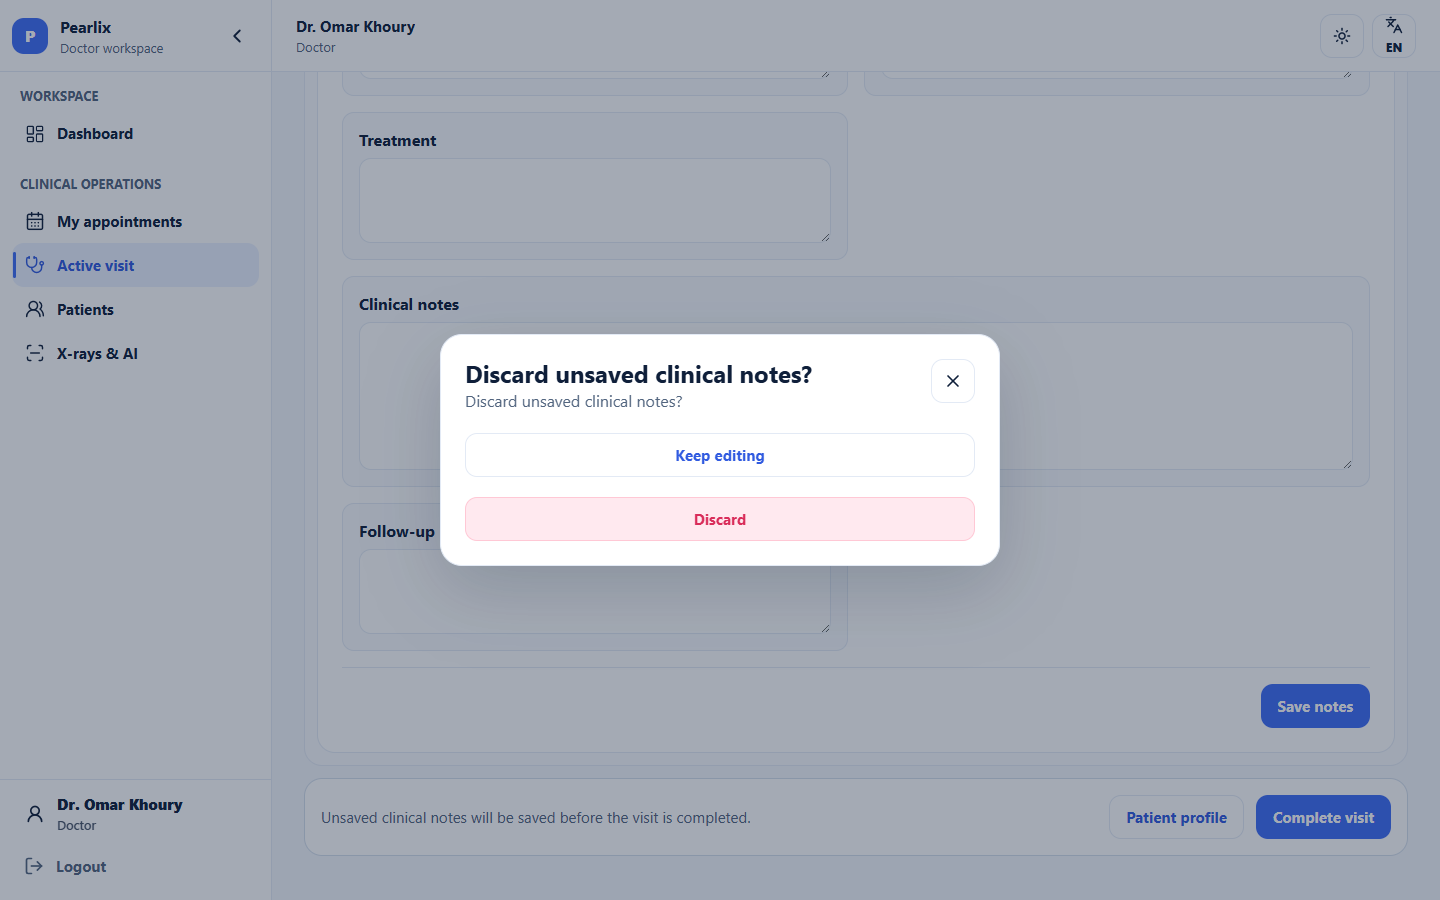
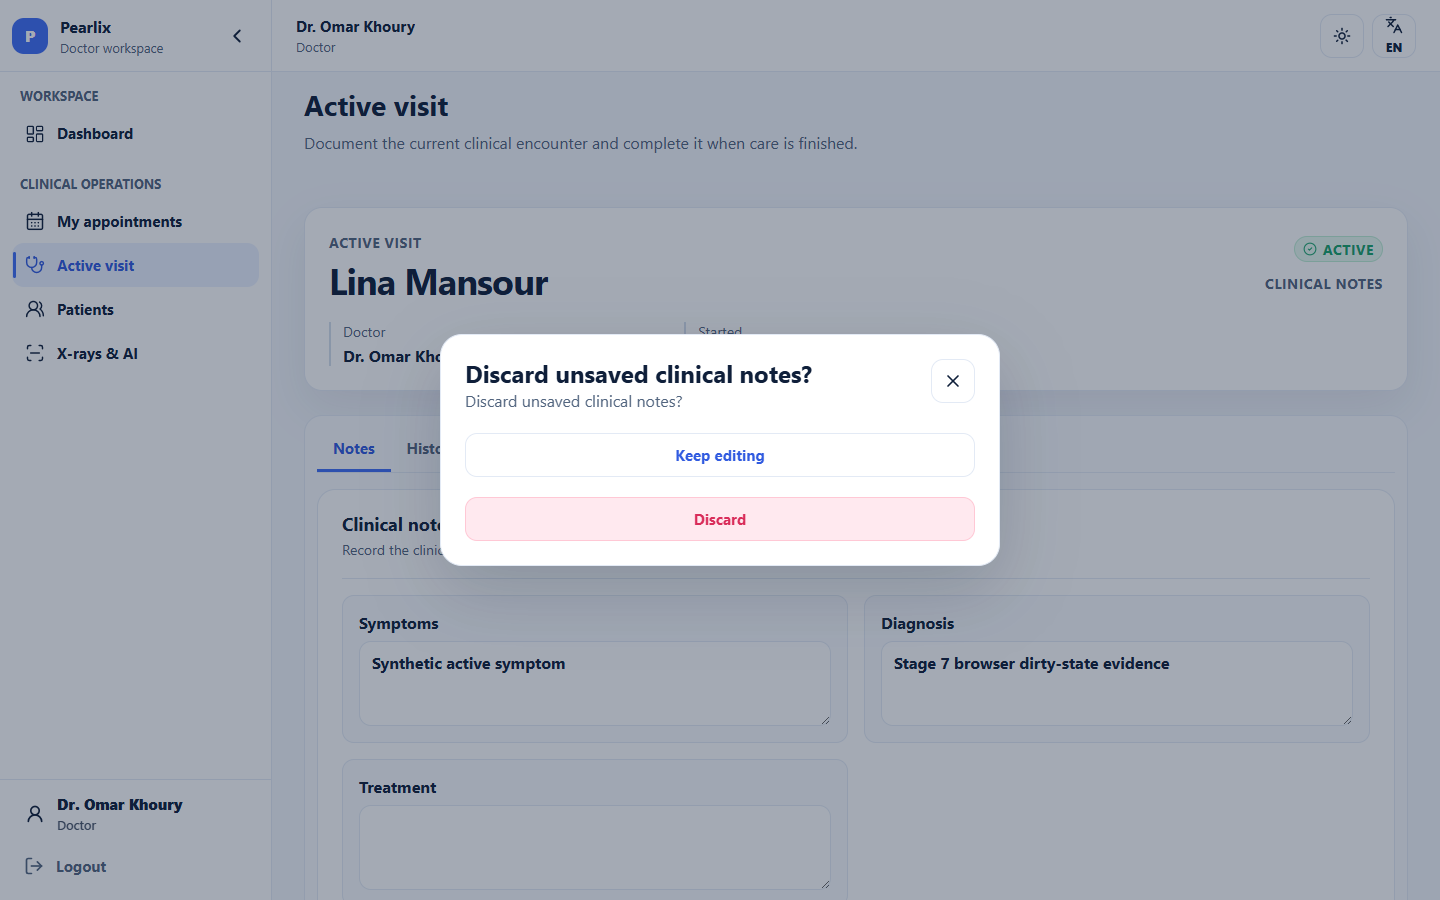
docs: finalize visit alignment evidence

diff --git a/scripts/check_documentation_consistency.py b/scripts/check_documentation_consistency.py
@@ -46,6 +46,28 @@ STAGE6_FILES = (
     "frontend/design_v2/design_alignment_evidence/billing/EVIDENCE_INDEX.md",
 )
 STAGE6_IMPLEMENTATION_SHA = "97566c0e3f79ada7ae9fe004025d2451b785779f"
+STAGE7_FILES = (
+    "frontend/design_v2/VISIT_ALIGNMENT_RECORD.md",
+    "frontend/design_v2/VISIT_VISUAL_DELTA.md",
+    "frontend/design_v2/DESIGN_ALIGNMENT_STATUS.md",
+    "frontend/design_v2/DESIGN_ALIGNMENT_HISTORY.md",
+    "frontend/design_v2/design_alignment_evidence/visits/EVIDENCE_INDEX.md",
+    "backend/project_docs/PROJECT_STATUS.md",
+)
+STAGE7_IMPLEMENTATION_SHA = "1cc67e199473d662859c21c76127093f6ab555b7"
+STAGE7_EVIDENCE_FILES = (
+    "before/doctor-visit-history-before-1440x900-en-light.png",
+    "before/doctor-visit-xrays-before-1440x900-en-light.png",
+    "before/doctor-visit-appointment-before-1440x900-en-light.png",
+    "before/doctor-complete-visit-before-1440x900-en-light.png",
+    "before/staff-visit-readonly-before-1024x900-en-dark.png",
+    "before/admin-visit-readonly-before-1024x900-en-dark.png",
+    "before/doctor-visit-before-768x1024-ar-light-rtl.png",
+    "before/doctor-no-active-visit-before-768x1024-en-light.png",
+    "after/doctor-visit-dirty-notes-after-1440x900-en-light.png",
+    "after/doctor-completed-visit-after-1440x900-en-light.png",
+    "after/doctor-visit-responsive-after-768x1024-en-light.png",
+)
 STALE_CURRENT_AUTHORITY = (
     "phase 14f browser visual/uat acceptance is next",
     "phase 14f complete — blocked",
@@ -93,9 +115,6 @@ def main() -> int:
     stage6_sources = {relative: read(relative, errors) for relative in STAGE6_FILES}
     status = sources["status"].lower()
     design_status = read("frontend/design_v2/DESIGN_ALIGNMENT_STATUS.md", errors).lower()
-    for requirement in ("latest completed stage: stage 6", "next stage: visits and clinical workflows"):
-        if requirement not in design_status:
-            errors.append(f"design alignment status missing Stage 6 snapshot fact: {requirement!r}")
     for stale in ("pending stage 1", "next stage: patient", "next recommended stage: team", "next recommended stage: billing"):
         if stale in design_status:
             errors.append(f"design alignment status retains stale marker: {stale!r}")
@@ -109,10 +128,30 @@ def main() -> int:
         if STAGE6_IMPLEMENTATION_SHA not in source:
             errors.append(f"{relative} missing validated Stage 6 implementation SHA")
 
+    stage7_sources = {relative: read(relative, errors) for relative in STAGE7_FILES}
+    for relative, source in stage7_sources.items():
+        if STAGE7_IMPLEMENTATION_SHA not in source:
+            errors.append(f"{relative} missing validated Stage 7 implementation SHA")
+    stage7_status = stage7_sources["frontend/design_v2/DESIGN_ALIGNMENT_STATUS.md"].lower()
+    if "latest completed stage: stage 7 visits and clinical workflows" not in stage7_status:
+        errors.append("design alignment status does not identify Stage 7 as latest completed stage")
+    if stage7_status.count("next stage:") != 1 or "next stage: x-rays and ai workspace" not in stage7_status:
+        errors.append("design alignment status must contain exactly one Stage 7 next-stage statement")
+    stage7_text = "\n".join(stage7_sources.values()).lower()
+    for stale in ("pending implementation", "pending verification", "pending finalization", "implementation commit: pending", "next stage: visits", "next stage: billing"):
+        if stale in stage7_text:
+            errors.append(f"Stage 7 documentation retains stale marker: {stale!r}")
+    if "9177f5eb404b922fbac1969447767ea0e7f31dc8" in stage7_text:
+        errors.append("Stage 7 documentation retains invalid Stage 5 SHA")
+    stage7_evidence = ROOT / "frontend/design_v2/design_alignment_evidence/visits"
+    for filename in STAGE7_EVIDENCE_FILES:
+        if not (stage7_evidence / filename).is_file():
+            errors.append(f"missing Stage 7 evidence screenshot: {filename}")
+
     if errors:
         print("Documentation consistency check failed:\n- " + "\n- ".join(errors))
         return 1
-    print("Documentation consistency check passed for Phase 14F closure and Stage 4 patient evidence.")
+    print("Documentation consistency check passed for Phase 14F closure and completed Stage 7 visit evidence.")
     return 0
 
 

diff --git a/frontend/design_v2/design_alignment_evidence/visits/EVIDENCE_INDEX.md b/frontend/design_v2/design_alignment_evidence/visits/EVIDENCE_INDEX.md
@@ -1,0 +1,38 @@
+# Stage 7 visit evidence
+
+Branch: `post-14f-medical-blue-visits`
+Source commit: `7e048bfc11d6fef6aeabe393c4a1c7a43e945885`
+Implementation commit: `1cc67e199473d662859c21c76127093f6ab555b7`
+Deterministic state: `seed_demo_clinic_story --reset-demo --include-must-change-user --reference-date 2026-07-19`.
+
+Pre-change captures were served from a detached worktree at the source commit; post-change captures were served from the active implementation branch. Terminal Playwright drove Microsoft Edge through local authenticated sessions. The render gate required HTTP 200 navigation, complete ready state, a populated `#root`, visible text, successful JS/CSS assets, and no document/body overflow. The recorded viewports have matching inner/client/document/body widths; any table scrolling is local to its bounded surface.
+
+| Evidence | Role / route / state | Viewport |
+| --- | --- | --- |
+| `before/doctor-active-visit-before-1440x900-en-light.png` | Doctor active visit | 1440x900 EN light LTR |
+| `before/doctor-visit-notes-before-1440x900-en-light.png` | Doctor active visit, Notes | 1440x900 EN light LTR |
+| `before/doctor-visit-history-before-1440x900-en-light.png` | Doctor active visit, History | 1440x900 EN light LTR |
+| `before/doctor-visit-xrays-before-1440x900-en-light.png` | Doctor active visit, X-rays & AI | 1440x900 EN light LTR |
+| `before/doctor-visit-appointment-before-1440x900-en-light.png` | Doctor active visit, Appointment info | 1440x900 EN light LTR |
+| `before/doctor-complete-visit-before-1440x900-en-light.png` | Doctor active visit, completion confirmation | 1440x900 EN light LTR |
+| `before/staff-visit-readonly-before-1024x900-en-dark.png` | Staff direct visit, readonly | 1024x900 EN dark LTR |
+| `before/admin-visit-readonly-before-1024x900-en-dark.png` | Admin direct visit, readonly | 1024x900 EN dark LTR |
+| `before/doctor-visit-before-768x1024-ar-light-rtl.png` | Doctor active visit, Arabic RTL | 768x1024 AR light RTL |
+| `before/doctor-no-active-visit-before-768x1024-en-light.png` | Doctor no-active-visit recovery | 768x1024 EN light LTR |
+| `after/doctor-active-visit-after-1440x900-en-light.png` | Doctor active visit | 1440x900 EN light LTR |
+| `after/doctor-visit-notes-after-1440x900-en-light.png` | Doctor active visit, Notes | 1440x900 EN light LTR |
+| `after/doctor-visit-dirty-notes-after-1440x900-en-light.png` | Doctor modified Notes, no save | 1440x900 EN light LTR |
+| `after/doctor-visit-history-after-1440x900-en-light.png` | Doctor active visit, History | 1440x900 EN light LTR |
+| `after/doctor-visit-xrays-after-1440x900-en-light.png` | Doctor active visit, X-rays & AI | 1440x900 EN light LTR |
+| `after/doctor-visit-appointment-after-1440x900-en-light.png` | Doctor active visit, Appointment info | 1440x900 EN light LTR |
+| `after/doctor-visit-billing-context-after-1440x900-en-light.png` | Doctor Appointment info, embedded Billing context | 1440x900 EN light LTR |
+| `after/doctor-complete-visit-after-1440x900-en-light.png` | Doctor completion confirmation | 1440x900 EN light LTR |
+| `after/doctor-discard-visit-changes-after-1440x900-en-light.png` | Doctor dirty route-block confirmation | 1440x900 EN light LTR |
+| `after/doctor-completed-visit-after-1440x900-en-light.png` | Doctor completed direct visit; completion locked while owner-note editing remains contractually available | 1440x900 EN light LTR |
+| `after/staff-visit-readonly-after-1024x900-en-dark.png` | Staff direct visit, readonly | 1024x900 EN dark LTR |
+| `after/admin-visit-readonly-after-1024x900-en-dark.png` | Admin direct visit, readonly | 1024x900 EN dark LTR |
+| `after/doctor-visit-after-768x1024-ar-light-rtl.png` | Doctor active visit, Arabic RTL | 768x1024 AR light RTL |
+| `after/doctor-visit-responsive-after-768x1024-en-light.png` | Doctor responsive sentinel | 768x1024 EN light LTR |
+| `after/doctor-no-active-visit-after-768x1024-en-light.png` | Doctor no-active-visit recovery | 768x1024 EN light LTR |
+
+Doctor mutation evidence stops before confirmation submission: no completion or save mutation was performed; the dirty-state capture uses the route-blocker's Discard path only. Staff and Admin evidence confirms no clinical-note save, completion, X-ray mutation, or Billing mutation control. The deterministic no-active-visit route records its expected `NO_ACTIVE_VISIT` 404 and renders the empty recovery state; no other required request failed. The existing React Router future-flag warning is non-blocking.

diff --git a/backend/project_docs/PROJECT_STATUS.md b/backend/project_docs/PROJECT_STATUS.md
@@ -23,7 +23,9 @@ Post-Phase-14F Stage 4 patient workflow alignment is complete for the Staff, Adm
 
 Post-Phase-14F Stage 5 team and staff-management visual alignment is complete for Team, Users & Access, schedules, leave, and own-profile surfaces. It preserves backend contracts, permissions, query state, security flows, and routes; backend changes: none; migrations: none. Evidence and visual-delta record: `frontend/design_v2/design_alignment_evidence/team-management/`, `frontend/design_v2/TEAM_MANAGEMENT_ALIGNMENT_RECORD.md`, and `frontend/design_v2/TEAM_MANAGEMENT_VISUAL_DELTA.md`. The next recommended stage is billing and financial workflow alignment.
 
-Post-Phase-14F Stage 6 billing visual alignment is complete for the billing workspace, invoice register/detail/print, financial summary, payment history, staff confirmations, and Admin read-only view. It made no backend change and added no migration. Focused frontend billing checks, typecheck, and production build passed. Evidence: `frontend/design_v2/design_alignment_evidence/billing/`. Next stage: visits and clinical workflows.
+Post-Phase-14F Stage 6 billing visual alignment is complete for the billing workspace, invoice register/detail/print, financial summary, payment history, staff confirmations, and Admin read-only view. It made no backend change and added no migration. Focused frontend billing checks, typecheck, and production build passed. Evidence: `frontend/design_v2/design_alignment_evidence/billing/`.
+
+Post-Phase-14F Stage 7 visits and clinical workflows alignment is complete. It aligns Doctor active/detail clinical workspaces, clinical notes, History, X-rays & AI, Appointment info with embedded Billing context, completion/discard confirmations, Staff/Admin readonly views, Arabic RTL, and responsive recovery states. Functional changes: frontend visual composition only; backend changes: none; migrations: none. The source commit is `7e048bfc11d6fef6aeabe393c4a1c7a43e945885`; implementation commit: `1cc67e199473d662859c21c76127093f6ab555b7`. Frontend verification passed: 74 test files / 257 tests, typecheck, production build, Django check, migration drift, documentation consistency, and diff check. Evidence and records: `frontend/design_v2/design_alignment_evidence/visits/`, `frontend/design_v2/VISIT_ALIGNMENT_RECORD.md`, and `frontend/design_v2/VISIT_VISUAL_DELTA.md`. Next stage: X-rays and AI workspace.
 
 Remaining post-MVP limitations include real AI integration, email forgot-password, unsupported professional fields, online payments, invoice itemization, tax, discounts, insurance billing, automatic notifications, multi-clinic tenancy, and full mobile-first optimization.
 

diff --git a/frontend/design_v2/VISIT_ALIGNMENT_RECORD.md b/frontend/design_v2/VISIT_ALIGNMENT_RECORD.md
@@ -1,0 +1,20 @@
+# Stage 7 - Visits and clinical workflows alignment
+
+Branch: `post-14f-medical-blue-visits`
+Source commit: `7e048bfc11d6fef6aeabe393c4a1c7a43e945885`
+Implementation commit: `1cc67e199473d662859c21c76127093f6ab555b7`
+
+Stage 7 aligns the active-visit and visit-detail workspace with the medical-blue hierarchy. The work is limited to frontend presentation: structured clinical-note fields, a contained notes grid, clearer visit identity/context, tab-frame spacing, action grouping, dialog composition, responsive reflow, and readonly presentation. Existing routes, payloads, query keys, completion flow, ownership rules, and backend contracts remain authoritative.
+
+Active route inventory: Doctor `/doctor/visits/active` and `/doctor/visits/:visitId`; Staff `/staff/visits/:visitId`; Admin `/admin/visits/:visitId`. The workspace exposes Notes, History, X-rays & AI, and Appointment info; Appointment info retains the embedded billing boundary.
+
+Protected behavior verified by focused tests and browser evidence includes five-field clinical-note save payloads, dirty-state route blocking and beforeunload protection, explicit Keep editing/Discard choices, save-before-complete behavior, ownership-based Doctor mutation controls, Staff/Admin readonly behavior, completed-visit completion locking, History current-visit exclusion, embedded X-ray/Billing boundaries, RTL direction, and responsive no-overflow rendering. The existing backend contract intentionally allows the owning Doctor to continue editing clinical notes after completion; only a second completion is locked.
+
+- Functional changes: none; visual composition and hierarchy only.
+- Backend changes: none.
+- Migrations: none.
+- Focused frontend visit tests: 4 files, 10 tests passed.
+- Full frontend suite: 74 files, 257 tests passed.
+- TypeScript typecheck, production build, Django check, migration drift, documentation consistency, and diff check: passed.
+- Evidence: `frontend/design_v2/design_alignment_evidence/visits/`.
+- Visual delta: `frontend/design_v2/VISIT_VISUAL_DELTA.md` - PASS.

diff --git a/frontend/design_v2/VISIT_VISUAL_DELTA.md b/frontend/design_v2/VISIT_VISUAL_DELTA.md
@@ -1,0 +1,18 @@
+# Visit visual delta - Stage 7
+
+Source: `post-14f-medical-blue-billing` at `7e048bfc11d6fef6aeabe393c4a1c7a43e945885`. Implementation: `1cc67e199473d662859c21c76127093f6ab555b7`.
+
+| Pair | Structural visual change | Result |
+| --- | --- | --- |
+| Doctor Active Visit | The visit identity/context becomes a distinct clinical header with a framed workspace and separated action band. | PASS |
+| Clinical Notes | Five fields form a responsive grid with the clinical narrative field spanning the primary reading width; save remains locally grouped. | PASS |
+| History | History is contained in the workspace frame with a bounded table surface and preserved current-visit exclusion. | PASS |
+| Appointment Info | Appointment facts receive a dedicated card hierarchy and the billing boundary remains below that clinical context. | PASS |
+| Embedded X-rays & AI | The tab inherits the framed clinical workspace while its existing protected interaction boundary is preserved. | PASS |
+| Complete Visit confirmation | Patient identity and dirty-note context are grouped before the explicitly ordered Keep active / Complete actions. | PASS |
+| Staff read-only | The same clinical hierarchy communicates readonly status without Doctor mutation controls. | PASS |
+| Admin read-only | The readonly clinical view remains distinct from X-ray, Billing, note, and completion mutations. | PASS |
+| Arabic/RTL | Logical layout, bidi-isolated clinical values, tab navigation, and actions remain usable at 768 px. | PASS |
+| No-active-visit state | The empty clinical route uses the aligned empty-state surface and the day-appointments recovery action. | PASS |
+
+The delta is structural rather than a minor style-only substitution: clinical field geometry, workspace framing, identity hierarchy, dialog summary, action grouping, and responsive stacking all change while functional contracts remain unchanged. The deterministic seed supports all recorded pairs; no pair is marked PASS solely for a token or cosmetic difference.

diff --git a/frontend/design_v2/DESIGN_ALIGNMENT_STATUS.md b/frontend/design_v2/DESIGN_ALIGNMENT_STATUS.md
@@ -2,12 +2,13 @@
 
 - Phase 14F remains complete.
 - Active initiative: post-Phase-14F medical-blue visual alignment.
-- Latest completed stage: Stage 6 billing alignment.
-- Current Stage 6 branch: `post-14f-medical-blue-billing`.
-- Source commit: `c46c3b000873593623fdb588dab09ff52523dabe`.
-- Implementation commit: `97566c0e3f79ada7ae9fe004025d2451b785779f`.
+- Latest completed stage: Stage 7 visits and clinical workflows.
+- Current Stage 7 branch: `post-14f-medical-blue-visits`.
+- Source commit: `7e048bfc11d6fef6aeabe393c4a1c7a43e945885`.
+- Implementation commit: `1cc67e199473d662859c21c76127093f6ab555b7`.
 - Functional changes: none; backend changes: none; migrations: none.
-- Visual delta: billing composition PASS.
-- Evidence: `frontend/design_v2/design_alignment_evidence/billing/`.
-- Next stage: visits and clinical workflows.
+- Visual delta: visit composition PASS.
+- Evidence: `frontend/design_v2/design_alignment_evidence/visits/`.
+- Frontend verification: 74 test files, 257 tests passed; typecheck and production build passed.
+- Next stage: X-rays and AI workspace.
 - Active limitations: evidence capture coverage follows only currently active routes and backend-supported demo states.

diff --git a/frontend/design_v2/DESIGN_ALIGNMENT_HISTORY.md b/frontend/design_v2/DESIGN_ALIGNMENT_HISTORY.md
@@ -8,3 +8,4 @@
 | 4 Patients | Stage 3 | `2e2309cc278a86bceaa78d2da3166fb12c127231` | `design_alignment_evidence/patients/` | Frontend visual only; no backend or migrations |
 | 5 Team management | `post-14f-medical-blue-patients` / `03f012d7b489a8adb61c80da0f6a830d8f24059a` | `9177f5ea46f9779de762c7776b6b443c293d77bd` | `design_alignment_evidence/team-management/` | Frontend visual only; no backend or migrations |
 | 6 Billing | `post-14f-medical-blue-team-management` / `c46c3b000873593623fdb588dab09ff52523dabe` | `97566c0e3f79ada7ae9fe004025d2451b785779f` | `design_alignment_evidence/billing/` | Frontend visual only; no backend or migrations |
+| 7 Visits and clinical workflows | `post-14f-medical-blue-billing` / `7e048bfc11d6fef6aeabe393c4a1c7a43e945885` | `1cc67e199473d662859c21c76127093f6ab555b7` | `design_alignment_evidence/visits/` | Frontend visual only; no backend or migrations |
